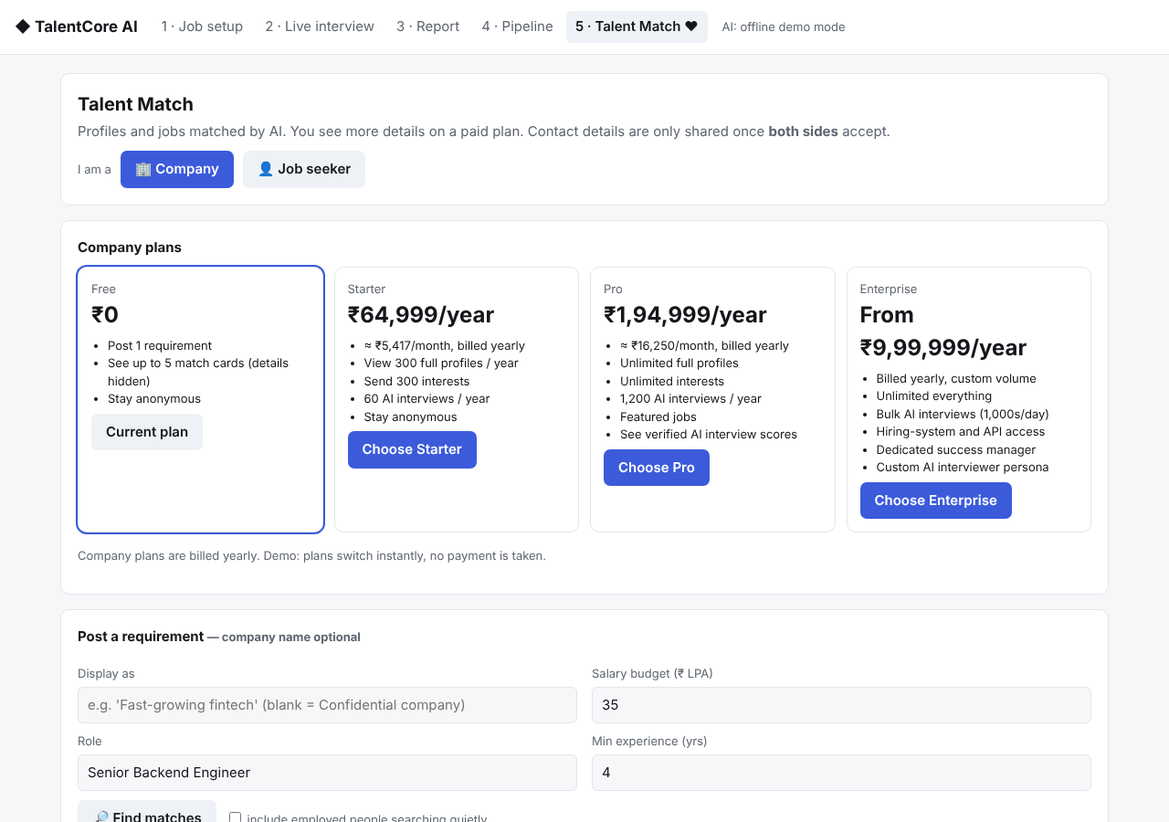
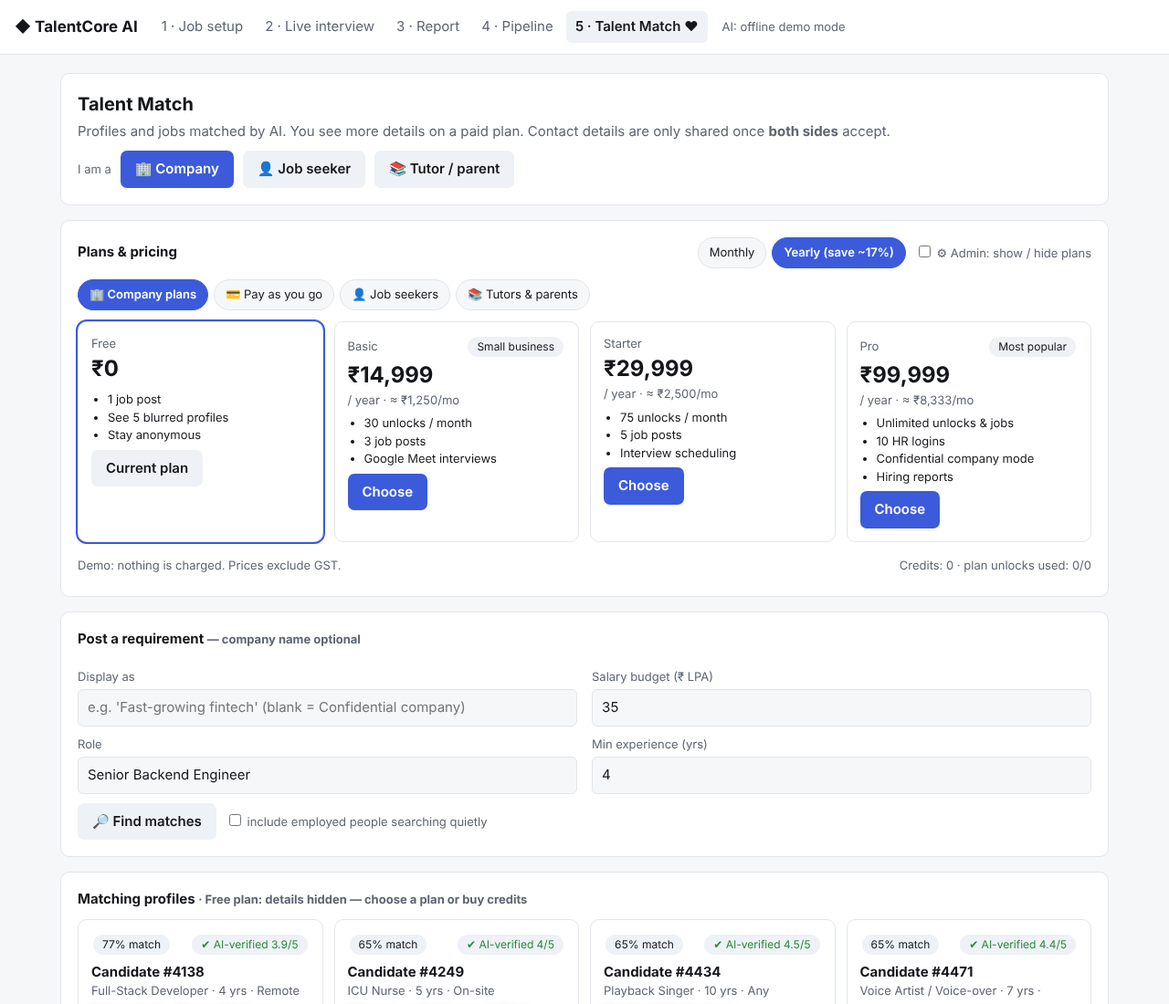
Full plan catalog with admin visibility, credits wallet, hiring-fee tracker, tutors & parents marketplace
Claude-Session: https://claude.ai/code/session_015UhHTEAKKaJcreY9dPX8Xd

diff --git a/app/index.html b/app/index.html
@@ -142,16 +142,28 @@ table{width:100%;border-collapse:collapse;font-size:14px}th,td{text-align:left;p
 <!-- TALENT MATCH -->
 <section id="v-match" class="hide">
 <div class="card"><div class="row" style="justify-content:space-between"><div><h2>Talent Match</h2><p class="sub" style="margin:0">Profiles and jobs matched by AI. You see more details on a paid plan. Contact details are only shared once <b>both sides</b> accept.</p></div>
-<div class="row"><span class="note">I am a</span><button class="btn" id="asCo">🏢 Company</button><button class="btn ghost" id="asCand">👤 Job seeker</button></div></div></div>
-<div class="card"><h3 id="planTitle">Company plans</h3><div class="kpi" id="plans"></div><p class="note" id="planNote">Demo: plans switch instantly, no payment is taken.</p></div>
+<div class="row"><span class="note">I am a</span><button class="btn" id="asCo">🏢 Company</button><button class="btn ghost" id="asCand">👤 Job seeker</button><button class="btn ghost" id="asTutor">📚 Tutor / parent</button></div></div></div>
+<div class="card"><div class="row" style="justify-content:space-between"><h3 id="planTitle" style="margin:0">Plans &amp; pricing</h3>
+<div class="row"><div class="chips" id="billChips"><button type="button" data-b="m" aria-pressed="true">Monthly</button><button type="button" data-b="y" aria-pressed="false">Yearly (save ~17%)</button></div><label style="margin:0"><input type="checkbox" id="adminMode" style="width:auto"> ⚙ Admin: show / hide plans</label></div></div>
+<div class="chips" id="planTabs" style="margin:12px 0"></div>
+<div class="kpi" id="plans" style="grid-template-columns:repeat(auto-fill,minmax(230px,1fr))"></div>
+<div class="row" style="justify-content:space-between;margin-top:6px"><p class="note" id="planNote" style="margin:0">Demo: nothing is charged.</p><span class="note" id="wallet"></span></div>
+<div id="purchases" class="note" style="margin-top:6px"></div></div>
 
 <div id="coView">
 <div class="card"><h3>Post a requirement <span class="note">— company name optional</span></h3><div class="grid2"><div><label>Display as</label><input id="mCo" placeholder="e.g. 'Fast-growing fintech' (blank = Confidential company)"><label>Role</label><input id="mRole" autocomplete="off" value="Senior Backend Engineer"></div><div><label>Salary budget (₹ LPA)</label><input id="mBud" type="number" value="35"><label>Min experience (yrs)</label><input id="mExp" type="number" value="4"></div></div>
 <div class="row" style="margin-top:10px"><button class="btn ghost" id="mFind">🔎 Find matches</button><label style="margin:0"><input type="checkbox" id="mQuiet" style="width:auto"> include employed people searching quietly</label></div></div>
 <div class="card"><h3>Matching profiles <span class="note" id="quota"></span></h3><div id="profiles" class="kpi" style="grid-template-columns:repeat(auto-fill,minmax(260px,1fr))"></div></div>
 <div class="card"><h3>Interests sent</h3><div id="sent"><p class="note">None yet.</p></div></div>
+<div class="card"><h3>💼 Hiring-fee tracker <span class="note">— pay only when you hire</span></h3><div id="hires"><p class="note">Mark an accepted candidate as hired to calculate the fee.</p></div></div>
 </div>
 
+<div id="tutorView" class="hide">
+<div class="card"><h3>Find a home tutor <span class="note">— parents &amp; students</span></h3><div class="grid2"><div><label>Class / level</label><select id="tClass"></select><label>Subject</label><input id="tSub" value="Mathematics"></div><div><label>Area / city</label><input id="tArea" value="Pune — Kothrud"><label>Mode</label><select id="tMode"><option>Home tuition</option><option>Online</option><option>Either</option></select></div></div>
+<div class="row" style="margin-top:10px"><button class="btn" id="tFind">🔎 Show matching tutors</button><span class="note">Contact: ₹299 each · Match pack (3 shortlisted): ₹799 · Demo class: ₹99</span></div></div>
+<div class="card"><h3>Tutors near you</h3><div id="tutors" class="kpi" style="grid-template-columns:repeat(auto-fill,minmax(240px,1fr))"></div></div>
+<p class="note">Are you a tutor? Choose a Tutor plan above to get listed first and receive unlimited parent leads.</p>
+</div>
 <div id="candView" class="hide">
 <div class="card"><h3>My job profile</h3><div class="grid2"><div>
 <label>Headline</label><input id="pHead" value="Backend engineer · payments & distributed systems">
@@ -72420,9 +72432,18 @@ document.addEventListener('click',async e=>{if(e.target.id!=='cmpBtn')return;con
  o.textContent=(await ask(`Compare these candidates head-to-head for the hiring team. For each competency-level difference that matters, say who is stronger and why; then give a ranked recommendation with the deciding factor and what would change the ranking. Job-related evidence only.\n\n${ps.map(p=>p.r?dossier(p):`${p.name} (summary only): ${p.overall}/5, ${p.recm}`).join('\n\n---\n\n').slice(0,14000)}`))||'Offline comparison:\n'+table});
 
 // ================= TALENT MATCH (marketplace) =================
-const PLANS={co:[{id:'free',n:'Free',p:'₹0',f:['Post 1 requirement','See up to 5 match cards (details hidden)','Stay anonymous']},{id:'starter',n:'Starter',p:'₹64,999/year',f:['≈ ₹5,417/month, billed yearly','View 300 full profiles / year','Send 300 interests','60 AI interviews / year','Stay anonymous']},{id:'pro',n:'Pro',p:'₹1,94,999/year',f:['≈ ₹16,250/month, billed yearly','Unlimited full profiles','Unlimited interests','1,200 AI interviews / year','Featured jobs','See verified AI interview scores']},{id:'ent',n:'Enterprise',p:'From ₹9,99,999/year',f:['Billed yearly, custom volume','Unlimited everything','Bulk AI interviews (1,000s/day)','Hiring-system and API access','Dedicated success manager','Custom AI interviewer persona']}],
- cand:[{id:'free',n:'Free',p:'₹0',f:['Create a profile','Get 3 company interests / month','1 practice interview']},{id:'gold',n:'Gold',p:'₹499/mo',f:['Appear higher in company searches','See which companies viewed you','Unlimited replies to interests','Salary insights for your role','5 practice interviews']},{id:'plat',n:'Platinum',p:'₹1,299/mo',f:['Top placement + "Verified" badge','Confidential search with employer blocking','Unlimited AI practice + coaching','Priority interview slots','AI profile coach']}]};
-const M={role:'co',plan:{co:'free',cand:'free'},views:0,sent:[],me:null};
+const P=(id,n,m,y,f,extra)=>({id,n,m,y,f,...(extra||{})});
+const CATALOG={
+ co:{t:'🏢 Company plans',sub:true,items:[P('free','Free',0,0,['1 job post','See 5 blurred profiles','Stay anonymous']),P('trial','Trial · 7 days',499,null,['One-time','10 contact unlocks','2 job posts']),P('basic','Basic',1499,14999,['30 unlocks / month','3 job posts','Google Meet interviews'],{tag:'Small business'}),P('starter','Starter',2999,29999,['75 unlocks / month','5 job posts','Interview scheduling']),P('growth','Growth',5999,59999,['200 unlocks / month','15 job posts','3 HR logins','Featured jobs']),P('pro','Pro',9999,99999,['Unlimited unlocks & jobs','10 HR logins','Confidential company mode','Hiring reports'],{tag:'Most popular'}),P('ent','Enterprise',null,499999,['Everything unlimited','Bulk hiring','Connects to your hiring software','Dedicated manager'],{from:1}),P('agency','Agency / Recruiter',7999,79999,['Many client companies','Client logos on candidate profiles','Share candidates with clients']),P('campus','Campus season',null,null,['₹19,999 per hiring season','Fresher profiles from partner colleges','Bulk interview scheduling'],{once:19999})]},
+ payg:{t:'💳 Pay as you go',items:[P('unlock1','Single contact unlock',null,null,['₹199 per candidate','Only after the candidate accepts'],{once:199,credits:1}),P('pack6','Credit pack · 6',null,null,['6 unlocks'],{once:999,credits:6}),P('pack35','Credit pack · 35',null,null,['35 unlocks'],{once:4999,credits:35}),P('pack80','Credit pack · 80',null,null,['80 unlocks · best value'],{once:9999,credits:80}),P('jobpost','Job post · 30 days',null,null,['+₹199 Urgent badge','+₹299 Featured on top'],{once:499}),P('hirefee','Hiring fee',null,null,['8.33% of first-year salary','Minimum ₹10,000','Free replacement within 60 days'],{fee:1}),P('junior','Fixed-fee junior hire',null,null,['₹4,999 per hire','Shop, delivery, call-centre and similar roles'],{once:4999}),P('drive','Bulk hiring drive',null,null,['Up to 50 hires','Hiring-event page'],{once:25000}),P('bgv','Background & ID check',null,null,['Per candidate'],{once:299}),P('ref','Reference check',null,null,['Done by our team, per candidate'],{once:499}),P('copage','Featured company page',1999,null,['Your brand on top of searches']),P('blast','Job alert blast',null,null,['Sent to matching candidates'],{once:999})]},
+ cand:{t:'👤 Job seekers',sub:true,items:[P('free','Free',0,0,['Profile & apply to jobs','3 company interests / month']),P('verified','Verified badge',null,null,['One-time ID check','✔ tick + higher in search'],{once:99}),P('boost','Profile boost',null,null,['₹49 for 3 days · ₹99 for 7 days','Top of company searches'],{once:49}),P('gold','Gold',199,999,['See who viewed you','Unlimited replies','Salary insights'],{tag:'Popular'}),P('plat','Platinum',499,2999,['Top placement','Confidential search + block employers','Priority support','AI profile coach']),P('fresher','Fresher pack',null,null,['Resume template + review','1 human mock interview'],{once:299}),P('coach','Career coaching',null,null,['45-min session with a field expert'],{once:999}),P('resume','Resume writing',null,null,['₹499 basic · ₹1,499 professional'],{once:499}),P('mock','Mock interview (human)',null,null,['With feedback'],{once:299}),P('cert','Skill certificate',null,null,['Online test + profile badge'],{once:199})]},
+ tutor:{t:'📚 Tutors & parents',sub:true,items:[P('pcontact','Parent · tutor contact',null,null,['One verified tutor'],{once:299}),P('ppack','Parent · match pack',null,null,['3 tutors shortlisted for your class, subject & area'],{once:799}),P('pdemo','Parent · demo class',null,null,['Adjusted against the first month'],{once:99}),P('tfree','Tutor · Free',0,0,['Profile','2 parent leads / month']),P('tpro','Tutor · Pro',199,1999,['Shown first','Unlimited leads','Verified badge'],{tag:'For tutors'}),P('tprem','Tutor · Premium',499,4999,['Top of your area','Booking calendar','Reviews highlighted']),P('tcomm','Tutor · Commission',null,null,['No upfront fee','10% of the first month only'],{fee:1}),P('school','School / coaching centre',2999,29999,['Unlimited teacher contacts'])]},
+ gig:{t:'🛠 Freelance & gig',items:[P('flfeat','Featured freelancer',149,1499,['Freelancer profile is free; this features it']),P('hourly','Hourly / daily-wage job post',null,null,['Per post'],{once:199}),P('gigfee','Gig commission',null,null,['5–10% when payment goes through the app'],{fee:1}),P('trade','Verified trade worker',99,999,['Electrician, plumber and more — top listing'])]},
+ extras:{t:'✨ Extras & partners',items:[P('ads','Course & college ads',null,null,['₹5,000–25,000 per campaign'],{once:5000}),P('event','Sponsored hiring event',null,null,['From ₹15,000'],{once:15000}),P('report','Salary & hiring report',null,null,['Per report'],{once:4999}),P('white','White-label app',null,49999,['For agencies & job boards','Per year, and up'],{from:1}),P('ats','Hiring-software integration',2999,29999,['Included in Enterprise']),P('aiint','AI interviewer add-on',null,null,['₹99–150 per screened candidate','Or a pack of 50 for ₹4,999'],{once:4999,soon:1})]}};
+const LAUNCH=new Set(['co:free','co:basic','co:starter','co:pro','payg:unlock1','payg:pack6','payg:jobpost','payg:hirefee','cand:free','cand:verified','cand:boost','cand:gold','tutor:pcontact','tutor:ppack','tutor:tpro']);
+const VIEW_LIMIT={free:0,trial:10,basic:30,starter:75,growth:200,pro:1e9,ent:1e9,agency:1e9,campus:1e9};
+const inr=n=>'₹'+Number(n).toLocaleString('en-IN');
+const M={role:'co',plan:{co:'free',cand:'free',tutor:'tfree'},views:0,sent:[],me:null,credits:0,buys:[],hires:[],bill:'m',tab:null,shown:null,tUnlocked:[]};
 try{Object.assign(M,JSON.parse(localStorage.getItem('tc_match')||'{}'))}catch(e){}
 const msave=()=>{try{localStorage.setItem('tc_match',JSON.stringify(M))}catch(e){}};
 const SEED=[ // fictional sample profiles
@@ -72443,24 +72464,45 @@ const SEED=[ // fictional sample profiles
 ].map((a,i)=>({id:'pr'+i,head:a[0],field:a[1],role:a[2],exp:a[3],skills:a[4],status:a[5],expSal:a[6],notice:a[7],mode:a[8],score:a[9],verified:i%3!==2,quiet:a[5]==='employed',alias:'Candidate #'+(4101+i*37)}));
 function matchPct(pr,role,bud,minExp){let m=40;const r=role.toLowerCase(),pr_=pr.role.toLowerCase();if(pr_===r)m+=35;else if(pr_.split(' ').some(w=>w.length>3&&r.includes(w)))m+=20;else if(FIELDS[pr.field]?.roles.some(x=>x.toLowerCase()===r))m+=12;
  if(pr.exp>=minExp)m+=10;else m-=(minExp-pr.exp)*4;if(!bud||!pr.expSal||pr.expSal<=bud)m+=10;else m-=Math.min(20,(pr.expSal-bud)*2);if(pr.verified)m+=5;return Math.max(5,Math.min(99,Math.round(m)))}
-const coLimit=()=>({free:0,starter:25,pro:1e9,ent:1e9})[M.plan.co];
-function renderPlans(){const k=M.role,list=PLANS[k];$('#planNote').textContent=(k==='co'?'Company plans are billed yearly. ':'')+'Demo: plans switch instantly, no payment is taken.';$('#planTitle').textContent=k==='co'?'Company plans':'Job-seeker plans';
- $('#plans').innerHTML=list.map(pl=>`<div style="${M.plan[k]===pl.id?'outline:2px solid var(--acc)':''}"><span class="note">${pl.n}</span><b>${pl.p}</b><ul style="padding-left:18px;margin:6px 0;font-size:13px">${pl.f.map(x=>`<li>${x}</li>`).join('')}</ul><button class="btn ${M.plan[k]===pl.id?'ghost':''}" onclick="setPlan('${pl.id}')">${M.plan[k]===pl.id?'Current plan':'Choose '+pl.n}</button></div>`).join('')}
-window.setPlan=id=>{M.plan[M.role]=id;msave();renderMatch()};
-function setRole(r){M.role=r;msave();$('#asCo').className='btn'+(r==='co'?'':' ghost');$('#asCand').className='btn'+(r==='cand'?'':' ghost');$('#coView').classList.toggle('hide',r!=='co');$('#candView').classList.toggle('hide',r!=='cand');renderMatch()}
-$('#asCo').onclick=()=>setRole('co');$('#asCand').onclick=()=>setRole('cand');
+const coLimit=()=>VIEW_LIMIT[M.plan.co]??0;
+const canView=()=>M.views<coLimit()||M.credits>0;
+function useView(){if(M.views<coLimit())M.views++;else if(M.credits>0)M.credits--;else return false;return true}
+function isShown(cat,id){const k=cat+':'+id;return M.shown?M.shown.includes(k):LAUNCH.has(k)}
+function priceLine(it){if(it.fee)return '<b>Pay on success</b>';if(it.once!=null&&it.m==null&&it.y==null)return `<b>${inr(it.once)}</b><span class="note">one-time</span>`;
+ const y=M.bill==='y'&&it.y!=null,v=y?it.y:(it.m??it.y);if(v==null)return `<b>${inr(it.once)}</b>`;if(v===0)return '<b>₹0</b>';return `<b>${it.from?'From ':''}${inr(v)}</b><span class="note">${(y||it.m==null)?'/ year':'/ month'}${y&&it.m?' · ≈ '+inr(Math.round(it.y/12))+'/mo':''}</span>`}
+function renderPlans(){const admin=$('#adminMode').checked;const cats=Object.keys(CATALOG).filter(c=>admin||CATALOG[c].items.some(it=>isShown(c,it.id)));
+ if(!M.tab||!cats.includes(M.tab))M.tab=({co:'co',cand:'cand',tutor:'tutor'})[M.role];if(!cats.includes(M.tab))M.tab=cats[0];
+ $('#planTabs').innerHTML=cats.map(c=>`<button type="button" data-c="${c}" aria-pressed="${c===M.tab}">${CATALOG[c].t}</button>`).join('');
+ const C=CATALOG[M.tab],planKey={co:'co',cand:'cand',tutor:'tutor'}[M.tab];
+ $('#plans').innerHTML=C.items.filter(it=>admin||isShown(M.tab,it.id)).map(it=>{const cur=planKey&&C.sub&&(it.m!=null||it.y!=null||it.once===19999||it.id==='trial')&&M.plan[planKey]===it.id;const shown=isShown(M.tab,it.id);
+  const isSub=C.sub&&!(it.once!=null&&it.m==null&&it.y==null&&it.id!=='trial'&&it.id!=='campus');
+  return `<div style="${cur?'outline:2px solid var(--acc);':''}${admin&&!shown?'opacity:.55;':''}"><div class="row" style="justify-content:space-between"><span class="note">${esc(it.n)}</span>${it.tag?`<span class="chip">${it.tag}</span>`:''}${it.soon?'<span class="chip">Coming soon</span>':''}</div>${priceLine(it)}
+  <ul style="padding-left:18px;margin:6px 0;font-size:13px">${it.f.map(x=>`<li>${esc(x)}</li>`).join('')}</ul>
+  ${admin?`<label style="margin:0"><input type="checkbox" style="width:auto" onchange="toggleShown('${M.tab}','${it.id}',this.checked)" ${shown?'checked':''}> Visible to users</label>`:
+   it.fee?`<span class="note">Charged only when a hire happens</span>`:isSub?`<button class="btn ${cur?'ghost':''}" onclick="setPlan('${planKey}','${it.id}')">${cur?'Current plan':'Choose'}</button>`:`<button class="btn" onclick="buy('${M.tab}','${it.id}')" ${it.soon?'disabled':''}>Buy (demo)</button>`}</div>`}).join('');
+ $('#planNote').textContent=(admin?'Admin view: tick which plans users can see. Launch set is ticked by default. ':'')+'Demo: nothing is charged. Prices exclude GST.';
+ $('#wallet').textContent=M.role==='co'?`Credits: ${M.credits} · plan unlocks used: ${M.views}/${coLimit()>=1e9?'∞':coLimit()}`:'';
+ $('#purchases').innerHTML=M.buys.length?'Recent purchases: '+M.buys.slice(-5).map(b=>`${esc(b.n)} (${inr(b.p)})`).join(' · '):''}
+window.toggleShown=(c,id,on)=>{const k=c+':'+id;M.shown=M.shown||[...LAUNCH];M.shown=on?[...new Set([...M.shown,k])]:M.shown.filter(x=>x!==k);msave();renderPlans()};
+window.buy=(c,id)=>{const it=CATALOG[c].items.find(x=>x.id===id);if(!it)return;M.buys.push({n:it.n,p:it.once||it.m||it.y||0,at:Date.now()});if(it.credits)M.credits+=it.credits;if(id==='verified'&&M.me){M.me.verified=true}msave();renderMatch()};
+window.setPlan=(k,id)=>{if(id===undefined){id=k;k=M.role}M.plan[k]=id;if(k==='co')M.views=0;msave();renderMatch()};
+$('#planTabs').onclick=e=>{const b=e.target.closest('[data-c]');if(b){M.tab=b.dataset.c;renderPlans()}};
+$('#billChips').onclick=e=>{const b=e.target.closest('[data-b]');if(!b)return;M.bill=b.dataset.b;[...$('#billChips').children].forEach(x=>x.setAttribute('aria-pressed',x.dataset.b===M.bill));msave();renderPlans()};
+$('#adminMode').onchange=renderPlans;
+function setRole(r){M.role=r;M.tab=null;msave();$('#asCo').className='btn'+(r==='co'?'':' ghost');$('#asCand').className='btn'+(r==='cand'?'':' ghost');$('#asTutor').className='btn'+(r==='tutor'?'':' ghost');$('#tutorView').classList.toggle('hide',r!=='tutor');$('#coView').classList.toggle('hide',r!=='co');$('#candView').classList.toggle('hide',r!=='cand');renderMatch()}
+$('#asCo').onclick=()=>setRole('co');$('#asTutor').onclick=()=>setRole('tutor');$('#asCand').onclick=()=>setRole('cand');
 function allProfiles(){return M.me?[M.me,...SEED]:SEED}
 function renderProfiles(){const role=$('#mRole').value,bud=+$('#mBud').value,minE=+$('#mExp').value,coName=$('#mCo').value.trim();
  let ps=allProfiles().filter(p=>$('#mQuiet').checked||p.status!=='employed').filter(p=>!(p.block||[]).some(b=>b&&coName.toLowerCase().includes(b.toLowerCase())));
- ps=ps.map(p=>({...p,m:matchPct(p,role,bud,minE)})).sort((a,b)=>b.m-a.m);const plan=M.plan.co,free=plan==='free';if(free)ps=ps.slice(0,5);
- $('#quota').textContent=free?'· Free plan: details hidden — upgrade to view full profiles':plan==='starter'?`· ${M.views}/300 profile views used this year`:'· unlimited';
- $('#profiles').innerHTML=ps.map(p=>{const unlocked=!free&&(plan!=='starter'||M.views<300||M.sent.some(x=>x.id===p.id));const st=M.sent.find(x=>x.id===p.id);
+ ps=ps.map(p=>({...p,m:matchPct(p,role,bud,minE)})).sort((a,b)=>b.m-a.m);const plan=M.plan.co,free=plan==='free'&&M.credits===0;if(free)ps=ps.slice(0,5);
+ $('#quota').textContent=free?'· Free plan: details hidden — choose a plan or buy credits':coLimit()>=1e9?'· unlimited':`· ${M.views}/${coLimit()} plan unlocks used · ${M.credits} credits`;
+ $('#profiles').innerHTML=ps.map(p=>{const unlocked=!free&&(canView()||M.sent.some(x=>x.id===p.id));const st=M.sent.find(x=>x.id===p.id);
   return `<div><div class="row" style="justify-content:space-between"><span class="chip">${p.m}% match</span>${p.verified?'<span class="chip" style="color:var(--ok)">✔ AI-verified '+p.score+'/5</span>':''}</div>
   <b style="font-size:15px;margin-top:6px">${p.quiet?'🕶 ':''}${esc(p.quiet?p.alias:(p.name||p.alias))}</b><div class="note">${esc(p.role)} · ${p.exp} yrs · ${esc(p.mode)}</div>
   <div style="${unlocked?'':'filter:blur(5px);user-select:none'}"><div style="font-size:13px;margin:6px 0">${esc(p.head)}</div><div class="note">Skills: ${esc(p.skills)}<br>Expects: ${p.expSal?'₹'+p.expSal+' LPA':'Per project'} · Notice: ${esc(p.notice)}<br>${p.status==='employed'?'Currently employed — confidential':'Available'}</div></div>
-  <div class="row" style="margin-top:8px">${free?`<button class="btn" onclick="setPlan('starter')">Upgrade to view</button>`:st?`<span class="chip">${st.state==='accepted'?'✅ Accepted — contact shared':'⏳ Interest sent'}</span>${st.state==='accepted'?`<button class="btn ghost" onclick="inviteAI('${p.id}')">Invite to AI interview</button>`:''}`:`<button class="btn" onclick="sendInterest('${p.id}')">💌 Send interest</button>`}</div></div>`}).join('')||'<p class="note">No matches — widen your filters.</p>';
- $('#sent').innerHTML=M.sent.length?M.sent.map(x=>{const p=allProfiles().find(q=>q.id===x.id);return p?`<div class="sig"><span>${esc(p.quiet?p.alias:p.head)} — ${esc(p.role)}</span><span>${x.state==='accepted'?'✅ accepted':'⏳ pending'}</span></div>`:''}).join(''):'<p class="note">None yet.</p>'}
-window.sendInterest=id=>{if(M.plan.co==='starter'&&M.views>=300)return alert('Yearly limit reached — upgrade to Pro.');M.views++;M.sent.push({id,state:'pending',co:$('#mCo').value.trim()||'Confidential company',role:$('#mRole').value,bud:+$('#mBud').value});
+  <div class="row" style="margin-top:8px">${free?`<button class="btn" onclick="M.tab='co';renderPlans();document.getElementById('plans').scrollIntoView({behavior:'smooth'})">See plans</button> <button class="btn ghost" onclick="buy('payg','unlock1')">Unlock ₹199</button>`:st?`<span class="chip">${st.state==='accepted'?'✅ Accepted — contact shared':'⏳ Interest sent'}</span>${st.state==='accepted'?`<button class="btn ghost" onclick="inviteAI('${p.id}')">Invite to AI interview</button>`:''}`:`<button class="btn" onclick="sendInterest('${p.id}')">💌 Send interest</button>`}</div></div>`}).join('')||'<p class="note">No matches — widen your filters.</p>';
+ $('#sent').innerHTML=M.sent.length?M.sent.map(x=>{const p=allProfiles().find(q=>q.id===x.id);return p?`<div class="sig"><span>${esc(p.quiet?p.alias:p.head)} — ${esc(p.role)}</span><span>${x.state==='accepted'?(M.hires.some(h=>h.id===x.id)?'🎉 hired':`✅ accepted <button class="btn ghost" onclick="markHired('${x.id}')">Mark hired</button>`):'⏳ pending'}</span></div>`:''}).join(''):'<p class="note">None yet.</p>'}
+window.sendInterest=id=>{if(!useView())return alert('No unlocks left — upgrade your plan or buy a credit pack.');M.sent.push({id,state:'pending',co:$('#mCo').value.trim()||'Confidential company',role:$('#mRole').value,bud:+$('#mBud').value});
  // demo: sample candidates reply after a moment
  if(id!=='me')setTimeout(()=>{const x=M.sent.find(s=>s.id===id);if(x&&Math.random()<.75){x.state='accepted';msave();renderMatch()}},2500);msave();renderMatch()};
 window.inviteAI=id=>{const p=allProfiles().find(q=>q.id===id);$('#title').value=$('#mRole').value;$('#company').value=$('#mCo').value;$('#hideCo').checked=!$('#mCo').value.trim();$('#iName').value=p.quiet?p.alias:(p.name||p.alias);show('jobs');$('#title').dispatchEvent(new Event('change'));window.scrollTo(0,0)};
@@ -72480,10 +72522,23 @@ function renderCand(){const pl=M.plan.cand;
  const role=$('#pRole').value;const jobs=[[role,'Confidential company',1.1],[role,'Global bank (anonymous)',1.25],[role,'Growth-stage startup',.95]];
  $('#jobsFor').innerHTML=jobs.map(([r,c,k])=>{const sal=Math.round((+$('#pExpSal').value||20)*k);return `<div><span class="chip">${Math.min(97,70+Math.round(k*15))}% match</span><b style="font-size:15px;margin-top:6px">${esc(r)}</b><div class="note">${esc(c)} · up to ₹${sal} LPA</div><button class="btn ghost" style="margin-top:8px" onclick="practiceFor('${esc(r)}')">Practice this interview</button></div>`}).join('')}
 window.practiceFor=r=>{$('#title').value=r;$('#practice').checked=true;show('jobs');$('#title').dispatchEvent(new Event('change'))};
-function renderMatch(){renderPlans();if(M.role==='co')renderProfiles();else renderCand()}
-setRole(M.role||'co');
+function renderMatch(){renderPlans();if(M.role==='co'){renderProfiles();renderHires()}else if(M.role==='tutor')renderTutors();else renderCand()}
+
 
 refreshLevels();
+// ---------- hiring-fee tracker ----------
+window.markHired=id=>{const p=allProfiles().find(q=>q.id===id);const def=Math.round((p?.expSal||5)*100000);const v=prompt('First-year salary offered (₹ per year):',def);if(v===null)return;const sal=Math.max(0,+String(v).replace(/[^\d]/g,''));
+ const junior=sal>0&&sal<300000;const fee=junior?4999:Math.max(10000,Math.round(sal*0.0833));M.hires.push({id,role:p?.role||'',sal,fee,junior,at:Date.now()});msave();renderMatch()};
+function renderHires(){const h=M.hires;$('#hires').innerHTML=h.length?h.map(x=>`<div class="sig"><span>${esc(x.role)} · salary ${inr(x.sal)}${x.junior?' · junior fixed fee':' · 8.33% (min ₹10,000)'}</span><b>${inr(x.fee)}</b></div>`).join('')+`<div class="sig"><span><b>Total fees due</b> <span class="note">(free replacement within 60 days)</span></span><b>${inr(h.reduce((a,x)=>a+x.fee,0))}</b></div>`:'<p class="note">Mark an accepted candidate as hired to calculate the fee.</p>'}
+// ---------- tutors & parents ----------
+const TUTORS=[['Anita K.','Mathematics','Class 6 – Class 10','Kothrud',8,4.8,'Home tuition'],['Rahul S.','Physics','Class 11 – Class 12 · JEE','Karve Nagar',6,4.7,'Either'],['Meera P.','English','Class 1 – Class 8','Kothrud',10,4.9,'Home tuition'],['Imran Q.','Chemistry','Class 9 – Class 12 · NEET','Online',5,4.6,'Online'],['Sneha D.','All subjects','Pre-school – Class 5','Warje',4,4.8,'Home tuition'],['Vikram T.','Mathematics','Class 9 – Class 12','Online',12,4.9,'Online'],['Priya R.','Hindi & Marathi','Class 1 – Class 10','Erandwane',7,4.7,'Either'],['Arjun M.','Computer Science','Class 8 – Undergraduate','Online',6,4.5,'Online']].map((t,i)=>({id:'t'+i,name:t[0],sub:t[1],cls:t[2],area:t[3],exp:t[4],rating:t[5],mode:t[6],fee:[3000,4500,2500,4000,2000,5000,2500,3500][i]}));
+function renderTutors(){const sub=$('#tSub').value.toLowerCase(),mode=$('#tMode').value;const list=TUTORS.map(t=>({...t,m:(t.sub.toLowerCase().includes(sub.split(' ')[0])||t.sub==='All subjects'?40:0)+(mode==='Either'||t.mode===mode||t.mode==='Either'?20:0)+t.rating*8})).sort((a,b)=>b.m-a.m);
+ $('#tutors').innerHTML=list.map(t=>{const open=M.tUnlocked.includes(t.id);return `<div><div class="row" style="justify-content:space-between"><b>${esc(t.name)}</b><span class="chip">★ ${t.rating}</span></div><div class="note">${esc(t.sub)} · ${esc(t.cls)}</div><div class="note">${esc(t.mode)} · ${esc(t.area)} · ${t.exp} yrs · from ${inr(t.fee)}/month</div>
+ <div class="row" style="margin-top:8px">${open?'<span class="chip">✅ Contact shared (demo)</span>':`<button class="btn" onclick="tutorContact('${t.id}')">Contact ₹299</button><button class="btn ghost" onclick="tutorDemo('${t.id}')">Demo class ₹99</button>`}</div></div>`}).join('')}
+window.tutorContact=id=>{M.tUnlocked.push(id);M.buys.push({n:'Tutor contact',p:299});msave();renderMatch()};
+window.tutorDemo=id=>{M.buys.push({n:'Demo class',p:99});msave();renderPlans();alert('Demo class requested (demo). The ₹99 is adjusted against the first month.')};
+$('#tClass').innerHTML=SCHOOL.map(c=>`<option>${c}</option>`).join('');$('#tClass').value='Class 9';$('#tFind').onclick=renderTutors;
+setRole(M.role||'co');
 // ---------- pipeline ----------
 const DEMO=[{id:'d1',name:'Priya N.',role:'Senior Backend Engineer',overall:4.4,recm:'strong_hire',status:'approved · offer T2 drafted',conf:.91},{id:'d2',name:'Marcus O.',role:'Senior Backend Engineer',overall:3.7,recm:'hire',status:'awaiting sign-off',conf:.84},{id:'d3',name:'Lena K.',role:'Account Executive',overall:3.1,recm:'hold',status:'awaiting sign-off',conf:.58},{id:'d4',name:'Tom R.',role:'Account Executive',overall:2.4,recm:'reject',status:'approved · feedback sent',conf:.88}];
 function renderPipe(){const all=[...store,...DEMO];const pend=all.filter(p=>/awaiting/.test(p.status)).length;

diff --git a/docs/FEATURES.md b/docs/FEATURES.md
@@ -133,3 +133,14 @@ All signals feed a 0–100 risk meter and a clickable integrity timeline in the 
 - **Work type (multi-select):** Full-time, Part-time, **Hourly basis**, Daily wage, Contract, Freelance, Internship, Apprenticeship, **Private tutor (home tuition)**, Online tutor, Remote, Shift work, Temporary, Volunteer.
 - **Interview languages (multi-select, 25 languages including 12 Indian):** the first ticked is spoken; the candidate may answer in any ticked language and the AI continues in theirs.
 - The levels, work types and languages all go to the AI's rubric, questions and scoring.
+
+## v12 — Full plan catalog (55 plans & add-ons)
+Grouped tabs, a Monthly/Yearly toggle and an **⚙ Admin: show/hide plans** switch. The launch set is visible by default (Company Free/Basic/Starter/Pro; single unlock, 6-credit pack, job post, hiring fee; job-seeker Free/Verified/Boost/Gold; parent contact, match pack, Tutor Pro). Everything else is built and hidden until an admin ticks it.
+- **Companies (9):** Free, Trial ₹499/7 days, Basic ₹1,499/mo or ₹14,999/yr, Starter ₹2,999/mo or ₹29,999/yr, Growth ₹5,999/mo, Pro ₹9,999/mo or ₹99,999/yr, Enterprise from ₹4,99,999/yr, Agency ₹7,999/mo, Campus ₹19,999 per season.
+- **Pay as you go (12):** unlock ₹199, credit packs (₹999 for 6 / ₹4,999 for 35 / ₹9,999 for 80), job post ₹499 (+Urgent/Featured), hiring fee 8.33% (min ₹10,000), junior hire ₹4,999, hiring drive ₹25,000, background check ₹299, reference check ₹499, featured company page ₹1,999/mo, job alert blast ₹999.
+- **Job seekers (10):** Free, Verified ₹99, Boost ₹49/₹99, Gold ₹199/mo, Platinum ₹499/mo, Fresher pack ₹299, coaching ₹999, resume ₹499/₹1,499, human mock interview ₹299, skill certificate ₹199.
+- **Tutors & parents (8):** parent contact ₹299, match pack ₹799, demo class ₹99; Tutor Free/Pro ₹199/Premium ₹499/commission 10% of the first month; School/coaching centre ₹2,999/mo. Includes a **Find a home tutor** page.
+- **Freelance & gig (4)** and **Extras (6)**, including the AI interviewer add-on marked *coming soon*.
+- **Credits wallet:** unlocks come from the plan quota first, then credits.
+- **Hiring-fee tracker:** "Mark hired" → enter the salary → the fee is calculated (₹4,999 fixed below ₹3 L/yr).
+All purchases are demo-only. Real payments need a gateway such as Razorpay.
